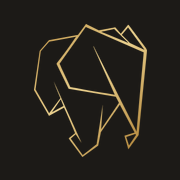
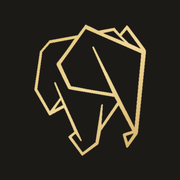
Reinstate the contact email and the email-app fallback

Changed region(s): [[0.1667, 0.1111, 0.8333, 0.8889], [0.5, 0.25, 0.5833, 0.4167]]

diff --git a/scripts/favicons.ts b/scripts/favicons.ts
@@ -1,0 +1,148 @@
+// Build the site icons from the line elephant (assets/EllyWhite.png).
+//
+//   node scripts/favicons.ts
+//
+// The elephant is drawn in hairlines, which vanish at tab size, so each icon
+// thickens the lines to suit its size before scaling down:
+//
+//   public/favicon.ico              16, 32 and 48 px, for browser tabs (browsers also ask for /favicon.ico)
+//   public/brand/favicon-32.png     the 32 px tab icon as a PNG
+//   public/brand/apple-touch-icon.png  180 px, iOS home screen (iOS rounds the corners)
+//   public/brand/icon-192.png, icon-512.png  for the web app manifest
+//   public/brand/icon-maskable-512.png       the same with Android's safe-zone padding
+//   public/site.webmanifest
+//
+// Gold elephant on ink, the same pairing as the link-preview image.
+
+import { writeFile } from 'node:fs/promises';
+import path from 'node:path';
+import sharp from 'sharp';
+import { ROOT } from './lib/paths.ts';
+
+const SOURCE = path.join(ROOT, 'assets', 'EllyWhite.png');
+const PUBLIC = path.join(ROOT, 'public');
+const BRAND = path.join(PUBLIC, 'brand');
+const INK = '#1c1a17';
+const WORK = 512; // every icon is drawn at this size, then scaled down
+
+/** A gold square with a diagonal sheen, like the foil on the logo. */
+const gold = (size: number) =>
+  sharp(
+    Buffer.from(`<svg xmlns="http://www.w3.org/2000/svg" width="${size}" height="${size}">
+      <defs><linearGradient id="g" x1="0" y1="0" x2="1" y2="1">
+        <stop offset="0" stop-color="#d9b768"/><stop offset="0.5" stop-color="#f0d999"/><stop offset="1" stop-color="#c49a4a"/>
+      </linearGradient></defs><rect width="100%" height="100%" fill="url(#g)"/></svg>`),
+  ).removeAlpha();
+
+/** Grow every opaque pixel of a one-channel mask into a disc of radius `r`. */
+function dilate(mask: Buffer, size: number, r: number) {
+  const out = Buffer.alloc(mask.length);
+  const disc: [number, number][] = [];
+  for (let dy = -r; dy <= r; dy++) for (let dx = -r; dx <= r; dx++) if (dx * dx + dy * dy <= r * r) disc.push([dx, dy]);
+  for (let y = 0; y < size; y++) {
+    for (let x = 0; x < size; x++) {
+      const v = mask[y * size + x];
+      if (v < 96) continue;
+      for (const [dx, dy] of disc) {
+        const xx = x + dx, yy = y + dy;
+        if (xx >= 0 && yy >= 0 && xx < size && yy < size) out[yy * size + xx] = 255;
+      }
+    }
+  }
+  return out;
+}
+
+/**
+ * The elephant in gold, `scale` of the canvas wide, with each line thickened
+ * by `thicken` pixels (at the 512 px working size). Each step runs as its own
+ * pass, since sharp applies operations in a fixed order, not call order.
+ */
+async function elephant(scale: number, thicken: number) {
+  const inner = Math.round(WORK * scale);
+  const pad = Math.round((WORK - inner) / 2);
+  const clear = { r: 0, g: 0, b: 0, alpha: 0 };
+  const placed = await sharp(SOURCE)
+    .trim()
+    .resize(inner, inner, { fit: 'contain', background: clear })
+    .extend({ top: pad, bottom: WORK - inner - pad, left: pad, right: WORK - inner - pad, background: clear })
+    .png()
+    .toBuffer();
+  let alpha = await sharp(placed).extractChannel('alpha').raw().toBuffer();
+  if (thicken > 0) {
+    // Grow the strokes, then soften the stair-steps a touch before scaling down.
+    alpha = await sharp(dilate(alpha, WORK, thicken), { raw: { width: WORK, height: WORK, channels: 1 } })
+      .blur(0.7)
+      .extractChannel(0) // blur hands back three channels; keep one
+      .raw()
+      .toBuffer();
+  }
+  const rgb = await gold(WORK).raw().toBuffer();
+  return sharp(rgb, { raw: { width: WORK, height: WORK, channels: 3 } })
+    .joinChannel(alpha, { raw: { width: WORK, height: WORK, channels: 1 } })
+    .png()
+    .toBuffer();
+}
+
+/** Ink ground, square or with rounded corners, with the elephant on it. */
+async function icon(opts: { scale: number; thicken: number; radius: number }) {
+  const r = Math.round(WORK * opts.radius);
+  const ground = Buffer.from(
+    `<svg xmlns="http://www.w3.org/2000/svg" width="${WORK}" height="${WORK}"><rect width="${WORK}" height="${WORK}" rx="${r}" fill="${INK}"/></svg>`,
+  );
+  return sharp(ground)
+    .composite([{ input: await elephant(opts.scale, opts.thicken) }])
+    .png()
+    .toBuffer();
+}
+
+const at = (image: Buffer, size: number) => sharp(image).resize(size, size, { kernel: 'lanczos3' }).png({ compressionLevel: 9 }).toBuffer();
+
+/** A .ico file holding PNG images (supported by every current browser). */
+function ico(images: { size: number; png: Buffer }[]) {
+  const header = Buffer.alloc(6 + 16 * images.length);
+  header.writeUInt16LE(0, 0);
+  header.writeUInt16LE(1, 2);
+  header.writeUInt16LE(images.length, 4);
+  let offset = header.length;
+  images.forEach(({ size, png }, i) => {
+    const e = 6 + 16 * i;
+    header.writeUInt8(size >= 256 ? 0 : size, e);
+    header.writeUInt8(size >= 256 ? 0 : size, e + 1);
+    header.writeUInt16LE(1, e + 4); // colour planes
+    header.writeUInt16LE(32, e + 6); // bits per pixel
+    header.writeUInt32LE(png.length, e + 8);
+    header.writeUInt32LE(offset, e + 12);
+    offset += png.length;
+  });
+  return Buffer.concat([header, ...images.map((i) => i.png)]);
+}
+
+// Tab icons: big, bold lines on a rounded tile so they hold up at 16 px.
+const tab = await icon({ scale: 0.84, thicken: 9, radius: 0.22 });
+const tabSizes = await Promise.all([16, 32, 48].map(async (size) => ({ size, png: await at(tab, size) })));
+await writeFile(path.join(PUBLIC, 'favicon.ico'), ico(tabSizes));
+await writeFile(path.join(BRAND, 'favicon-32.png'), tabSizes[1].png);
+
+// Larger icons keep more of the drawing's delicacy.
+const large = await icon({ scale: 0.72, thicken: 2, radius: 0 });
+await writeFile(path.join(BRAND, 'apple-touch-icon.png'), await at(large, 180));
+await writeFile(path.join(BRAND, 'icon-192.png'), await at(large, 192));
+await writeFile(path.join(BRAND, 'icon-512.png'), await at(large, 512));
+// Maskable: Android may crop to a circle, so the elephant stays inside the middle 80%.
+await writeFile(path.join(BRAND, 'icon-maskable-512.png'), await at(await icon({ scale: 0.56, thicken: 3, radius: 0 }), 512));
+
+const manifest = {
+  name: 'Paper Elephant Publishing',
+  short_name: 'Paper Elephant',
+  icons: [
+    { src: '/brand/icon-192.png', sizes: '192x192', type: 'image/png' },
+    { src: '/brand/icon-512.png', sizes: '512x512', type: 'image/png' },
+    { src: '/brand/icon-maskable-512.png', sizes: '512x512', type: 'image/png', purpose: 'maskable' },
+  ],
+  background_color: '#f5f0e6',
+  theme_color: '#f5f0e6',
+  display: 'browser',
+};
+await writeFile(path.join(PUBLIC, 'site.webmanifest'), JSON.stringify(manifest, null, 2) + '\n');
+
+console.log('icons written to public/ and public/brand/');

diff --git a/scripts/brand-assets.ts b/scripts/brand-assets.ts
@@ -5,8 +5,7 @@
 //   elephant-mask.png   the line elephant (assets/EllyWhite.png), trimmed, used
 //                       as a CSS mask so the header can colour it per theme
 //   nested-mark.webp    the gold nested elephant (assets/NestedLogo1.png) for the About page
-//   favicon-64.png,
-//   apple-touch-icon.png  gold elephant on ink
+//   (site icons are built separately by scripts/favicons.ts)
 //   og-image.png        the gold wordmark (assets/PEPplayfair (1).png) on ink, for link previews
 //   florals/*.png       line drawings from assets/FLORALS & ELEMENTS/BLACK, trimmed and
 //                       downsized, used as CSS masks (src/components/Floral.astro)
@@ -20,29 +19,10 @@ const SRC = path.join(ROOT, 'assets');
 const OUT = path.join(ROOT, 'public', 'brand');
 const INK = '#1c1a17';
 
-const gold = (w: number, h: number) =>
-  Buffer.from(`<svg xmlns="http://www.w3.org/2000/svg" width="${w}" height="${h}">
-    <defs><linearGradient id="g" x1="0" y1="0" x2="1" y2="1">
-      <stop offset="0" stop-color="#b98b3c"/><stop offset="0.45" stop-color="#ecd28f"/><stop offset="1" stop-color="#a9792b"/>
-    </linearGradient></defs><rect width="100%" height="100%" fill="url(#g)"/></svg>`);
-
-/** The elephant shape, recoloured gold, on a square of ink. */
-async function icon(size: number, file: string) {
-  const inner = Math.round(size * 0.74);
-  const shape = await sharp(path.join(SRC, 'EllyWhite.png')).trim().resize(inner, inner, { fit: 'contain', background: { r: 0, g: 0, b: 0, alpha: 0 } }).png().toBuffer();
-  const tinted = await sharp(gold(inner, inner)).composite([{ input: shape, blend: 'dest-in' }]).png().toBuffer();
-  await sharp({ create: { width: size, height: size, channels: 4, background: INK } })
-    .composite([{ input: tinted, gravity: 'center' }])
-    .png()
-    .toFile(path.join(OUT, file));
-}
-
 await mkdir(OUT, { recursive: true });
 
 await sharp(path.join(SRC, 'EllyWhite.png')).trim().resize({ height: 240 }).png({ compressionLevel: 9 }).toFile(path.join(OUT, 'elephant-mask.png'));
 await sharp(path.join(SRC, 'NestedLogo1.png')).trim().resize(900, 900, { fit: 'inside' }).webp({ quality: 86 }).toFile(path.join(OUT, 'nested-mark.webp'));
-await icon(64, 'favicon-64.png');
-await icon(180, 'apple-touch-icon.png');
 
 const word = await sharp(path.join(SRC, 'PEPplayfair (1).png')).trim().resize(900).png().toBuffer();
 await sharp({ create: { width: 1200, height: 630, channels: 4, background: INK } })

diff --git a/src/lib/site.ts b/src/lib/site.ts
@@ -11,6 +11,7 @@ export interface SiteContent {
   site: {
     name: string;
     url: string;
+    email: string;
     nav: Link[];
     copyright: string;
     contactLink: Link;
@@ -54,12 +55,12 @@ export interface SiteContent {
       heading: string;
       text: string;
       instagramPrefix: string;
-      formMissing: string;
+      emailPrefix: string;
       topicNotes: Record<string, { note?: string; hint?: string }>;
       topics: string[];
       labels: { name: string; email: string; topic: string; message: string; send: string };
       errors: { name: string; email: string; emailInvalid: string; message: string };
-      status: { sending: string; sent: string; failed: string };
+      status: { sending: string; sent: string; failed: string; openedEmailApp: string };
     };
   };
 }
@@ -70,8 +71,7 @@ export const SITE = {
   ...CONTENT.site,
   // Where the contact form posts. Any form service that accepts a normal form
   // POST works (Formspree, Basin, Netlify Forms...). Set PUBLIC_CONTACT_ENDPOINT
-  // in .env; without it the About page shows contact.formMissing and the
-  // Instagram link in place of the form.
+  // in .env; without it the form opens the visitor's email app instead.
   contactEndpoint: (import.meta.env.PUBLIC_CONTACT_ENDPOINT as string | undefined) ?? '',
 };
 

diff --git a/README.md b/README.md
@@ -92,12 +92,12 @@ Everything hand-made lives in `content/overrides.json`:
 - **All site text is in `content/site.yaml`:** the press name and email, the top-bar links, button labels, the About page copy, the contact form's labels, topics and messages. Edit it and rebuild; `npm run dev` picks up changes live.
 - **Books:** `/books/` lists every file in `content/books/` (one YAML file per book, newest first by `published`; the file name is the book's `#anchor`). Covers go in `public/books/` as `<name>-425.webp` and `<name>-850.webp`. In book copy, `_Title_` is set in italics.
 - `/` is First Lines, `/books/` the press's books, `/editing/` is the Editing & Ghostwriting page, and `/about/` is the About page with the contact form. The editing page's links open the form with a topic chosen (`/about/?topic=Ghostwriting#contact`); the topic must match one in `about.contact.topics`.
-- Source logos are in `assets/`. `node scripts/brand-assets.ts` builds the web versions in `public/brand/`: the elephant mask the header colours with a gold foil gradient, the gold nested mark on the About page, the favicons, and the link-preview image.
+- Source logos are in `assets/`. `node scripts/brand-assets.ts` builds the web versions in `public/brand/`: the elephant mask the header colours with a gold foil gradient, the gold nested mark on the About page, and the link-preview image. `node scripts/favicons.ts` builds the site icons (`public/favicon.ico`, the Apple touch icon, the web-app icons and `public/site.webmanifest`), thickening the elephant's hairlines so it still reads at tab size.
 - Below 720px the top-bar links collapse into a Menu button that opens a drawer (`src/components/SiteHeader.astro`, a modal `<dialog>`, so Escape, focus and the backdrop work natively). Without JavaScript the links stay in the bar.
 - The header wordmark is live text in Playfair Display, laid out like the logo lock-up (elephant, thin rule, three lines).
 - Each opening line is set like the start of a printed chapter: a gold Playfair drop cap (sunk three lines, or raised for short one-line openings), the first words in small capitals, and the elephant as an ornament on the rule below.
-- **Placeholder copy:** entries marked `PLACEHOLDER` in `content/site.yaml` are stand-ins to replace before launch. The press has no contact email; Instagram is the fallback contact.
-- **Contact form:** the site has no backend, so the form needs a form service such as Formspree or Basin. Put the service's endpoint in `.env` as `PUBLIC_CONTACT_ENDPOINT=...` and rebuild. Until then, the About page shows a short note and the Instagram link in place of the form (`about.contact.formMissing`). Topics listed under `about.contact.topicNotes` show who the message goes to and suggest what to write; the Editing page's links pick those topics. The form validates fields with inline messages and includes a hidden spam-trap field.
+- **Placeholder copy:** entries marked `PLACEHOLDER` in `content/site.yaml` (the About text and the address `hello@paperelephantpublishing.com`) are stand-ins to replace before launch.
+- **Contact form:** the site has no backend, so the form needs a form service such as Formspree or Basin. Put the service's endpoint in `.env` as `PUBLIC_CONTACT_ENDPOINT=...` and rebuild. Until then, submitting opens the visitor's email app with the message filled in. Topics listed under `about.contact.topicNotes` show who the message goes to and suggest what to write; the Editing page's links pick those topics. The form validates fields with inline messages and includes a hidden spam-trap field.
 
 ## Sources and licences
 

diff --git a/PRODUCT.md b/PRODUCT.md
@@ -28,7 +28,7 @@ The press doesn't open with a catalogue. It opens with a curated reading experie
 
 - A static Astro site with no backend, database, CMS or runtime API. The collection is `src/data/first-lines.json` plus WebP images in `public/first-lines/`, produced by the content pipeline in `scripts/` and checked by hand through `content/reviews.json` and `content/overrides.json`.
 - All site copy lives in `content/site.yaml`.
-- The contact form posts to a third-party form service (`PUBLIC_CONTACT_ENDPOINT`) when one is set. Until then the About page points visitors to Instagram instead. The press has no contact email.
+- The contact form posts to a third-party form service (`PUBLIC_CONTACT_ENDPOINT`) when one is set. Until then it opens the visitor's email app.
 - Pages: `/` (First Lines), `/books/` (the press's books, from `content/books/`), `/editing/` (Railee's editing and ghostwriting services) and `/about/` (about the press plus the contact form). Links to `/about/?topic=<topic>#contact` pre-select a contact topic.
 
 ## Capabilities and Constraints
@@ -40,7 +40,7 @@ The press doesn't open with a catalogue. It opens with a curated reading experie
 - **Open:** three of the four services on `/editing/` (Developmental editing, Ghostwriting, Research / story support) are unconfirmed descriptions carried over from raileebradshaw.com and marked `TODO` in `content/site.yaml`. They need Railee's sign-off before launch.
 - `/books/` lists the press's books newest first. _The Gingerbread House_ by R.M. Whitaker (Railee's pen name) shows its cover, back-cover copy, listing facts and links to Amazon and its page on raileebradshaw.com. Reader quotes, ratings and prices stay on the author's site.
 - Navigation: First lines, Books, Editing, About. Below 720px the links collapse into a Menu button that opens a drawer (a modal `<dialog>`); without JavaScript they stay in the bar.
-- **Open:** the contact form has no form service yet, so it isn't live; any copy marked `PLACEHOLDER` in `content/site.yaml` is a stand-in.
+- **Open:** the About copy and the contact address `hello@paperelephantpublishing.com` are placeholders (marked `PLACEHOLDER` in `content/site.yaml`).
 - **Open:** the terms for submissions (genres, what to send, response times).
 
 ## Brand Commitments
